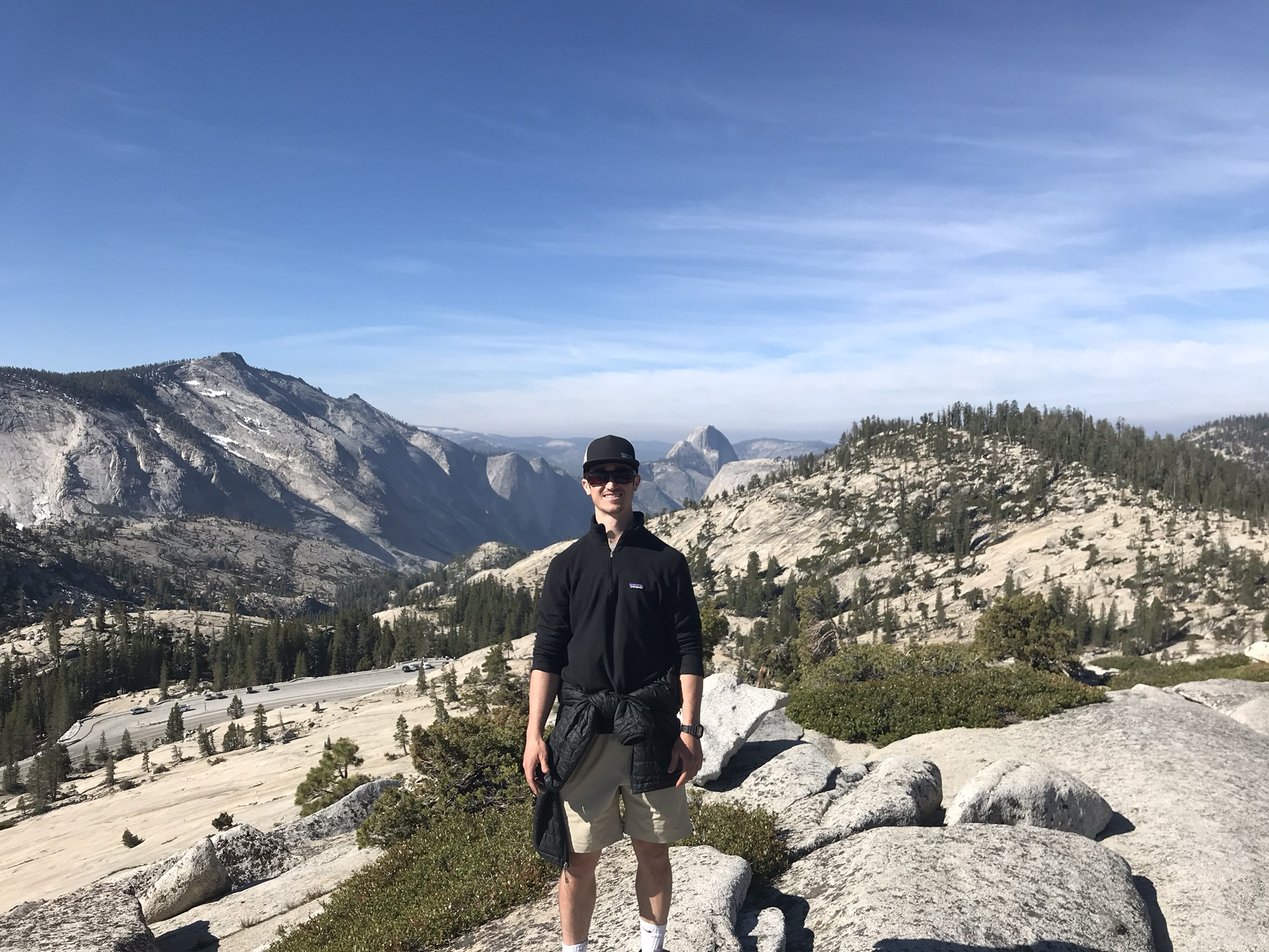
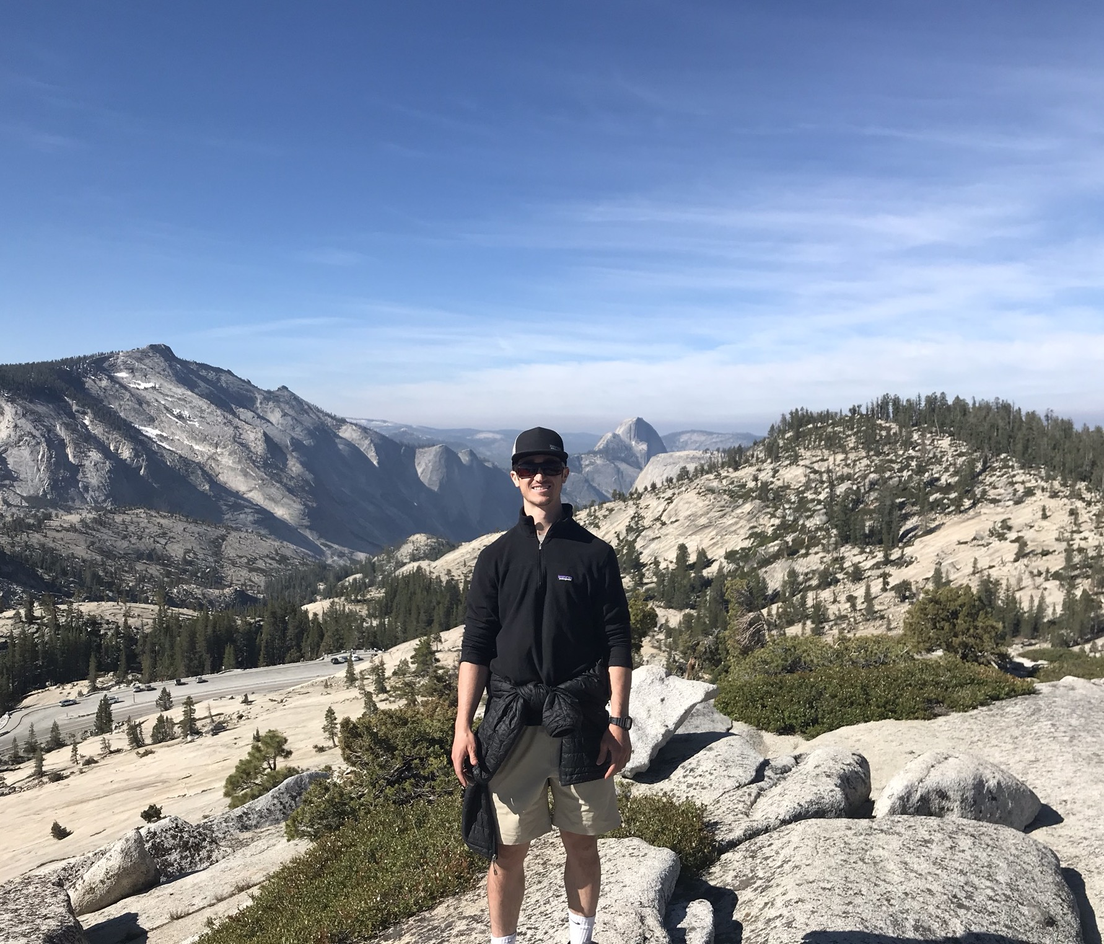
add twitte link; trim pic

diff --git a/_site/index.html b/_site/index.html
@@ -1002,6 +1002,13 @@
                 </a>
               </li>
                             <li class="list-inline-item">
+                <a href=https://twitter.com/lucaskjohnson03>
+                  <button type="button" class="btn btn-outline-dark mb-2">
+                    Twitter
+                  </button>
+                </a>
+              </li>
+                            <li class="list-inline-item">
                 <a href=mailto:lucas.k.johnson03+site@gmail.com>
                   <button type="button" class="btn btn-outline-dark mb-2">
                     Email
@@ -1061,6 +1068,11 @@
                                     <a href=https://www.linkedin.com/in/lucas-johnson-2ab76293/>
                     <button type="button" class="list-group-item list-group-item-action my-1 rounded" style="background-color: #f5e9dd; color: black;border-color: black;">
                       LinkedIn
+                    </button>
+                  </a>
+                                    <a href=https://twitter.com/lucaskjohnson03>
+                    <button type="button" class="list-group-item list-group-item-action my-1 rounded" style="background-color: #f5e9dd; color: black;border-color: black;">
+                      Twitter
                     </button>
                   </a>
                                     <a href=mailto:lucas.k.johnson03+site@gmail.com>
